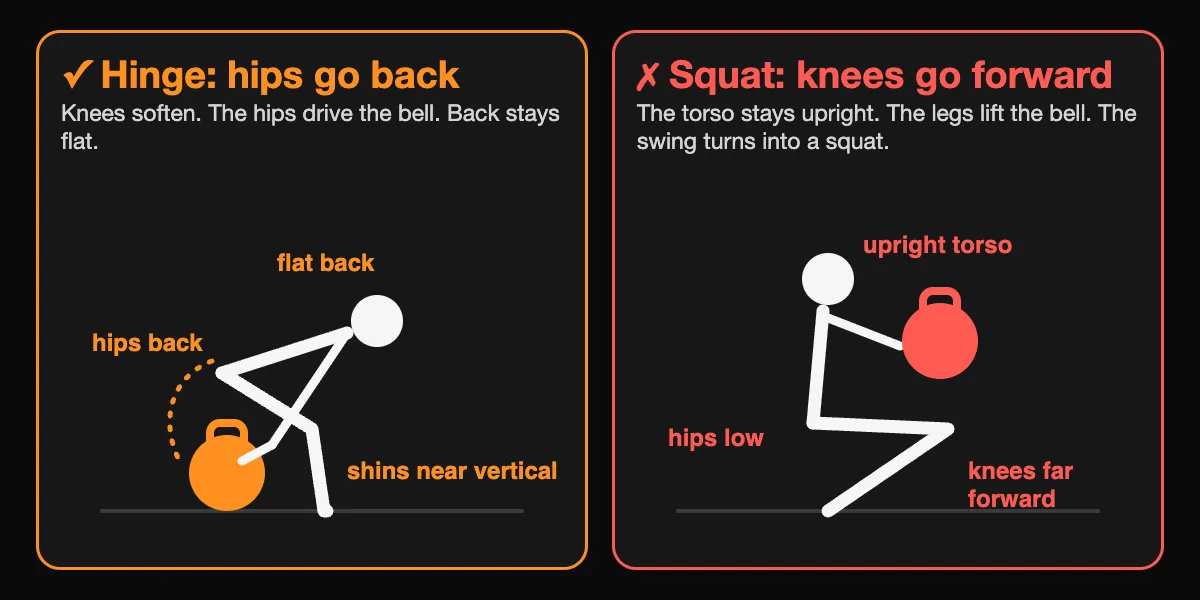
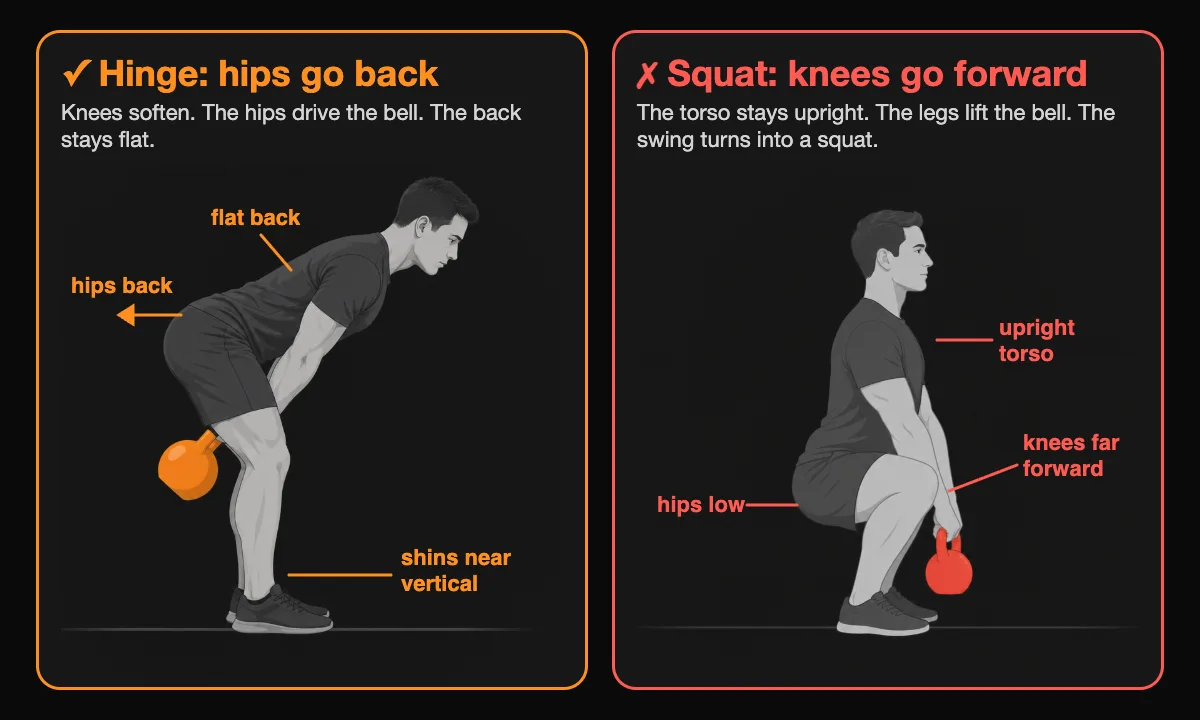
Replace the hinge vs squat stick figures with illustrated figures

Changed region(s): [[0.0308, 0.03, 0.9867, 0.9], [0.0617, 0.24, 0.4625, 0.9], [0.0308, 0.93, 0.9867, 0.96]]

diff --git a/blog/100-kettlebell-swings-a-day/index.html b/blog/100-kettlebell-swings-a-day/index.html
@@ -125,7 +125,7 @@
 
                 <h2 id="form">Form: hinge, do not squat</h2>
                 <figure>
-                    <img src="hinge-vs-squat.webp" width="1200" height="600" style="aspect-ratio: 1200 / 600" alt="Two stick figures: a hinge with the hips back and a flat back, marked right, and a squat with the knees far forward and an upright torso, marked wrong" loading="lazy">
+                    <img src="hinge-vs-squat.webp" width="1200" height="720" style="aspect-ratio: 1200 / 720" alt="Side view of a kettlebell swing done two ways. Right: a hip hinge with the hips back, a flat back and near-vertical shins. Wrong: a squat with an upright torso, low hips and the knees far forward." loading="lazy">
                     <figcaption>The hips move the bell. The knees bend only a little.</figcaption>
                 </figure>
                 <p>Tom's Guide says the swing comes from your legs and hips, not your arms, and that it is not a squat. Use this checklist:</p>
